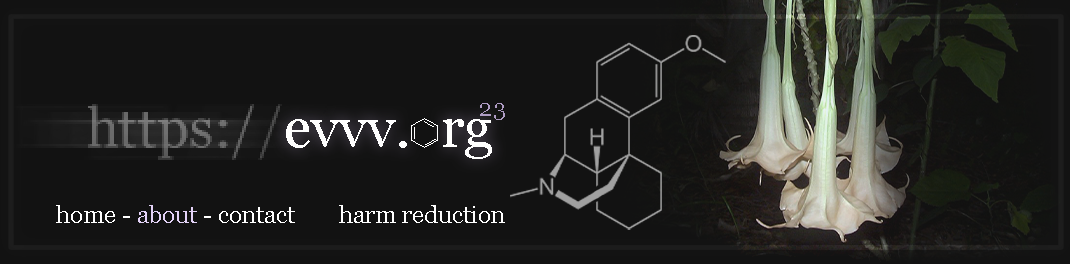
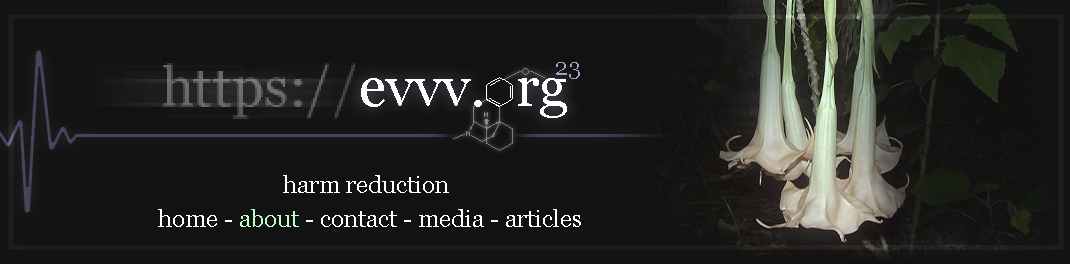
overhaul 2thaMAXX

diff --git a/index.html b/index.html
@@ -5,7 +5,10 @@ evvv.org - home
 </title>
 <link rel="icon" type="image/gif" href="./eye.gif">
 <head>
-
+<meta charset="UTF-8">
+<meta name="description" content="eve's homepage">
+<meta name="keywords" content="Drugs, Pharmacology, Pharmacy, Medical, Medicine">
+<meta name="author" content="evelyn">
 <link rel="stylesheet" href="style.css">
 </head>
 
@@ -41,7 +44,10 @@ evvv.org - home
         <br>
         fever contingency
         </p>
-        <img id="awesomesauce" src="./eve22.png" alt="22 badge">
+        <span>
+ 
+        </span>
+      
         <br><br><br><br>
 
         <p>🌘</p>
@@ -52,21 +58,65 @@ evvv.org - home
 
         <a id="footer" href="https://y22a.ev22.plus">eclipse  22</a>
         <img id="awesomesauce" src="./benzene_footer.png">
+        <div class="badge-container">
+            <div class="badge">
+                <img src="./eve22.png" alt="Badge 1">
+            </div>
+    
+            <div class="badge">
+                <img src="./agoraroad.png" alt="Badge 2">
+            </div>
+    
+            <div class="badge">
+                <img src="./covid.png" alt="Badge 3">
+            </div>
 
-        <div id="cache">
-            <img src="./banner_about.png" width="1px" height="1px">
-            <img src="./banner_con.png" width="1px" height="1px">
-            <img src="./banner_hr.png" width="1px" height="1px">
+            <div class="badge">
+                <img src="./wiki.gif" alt="Badge 3">
+            </div>
+
+            <div class="badge">
+                <img src="./free.gif" alt="Badge 3">
+            </div>
+
+            <div class="badge">
+                <img src="./get_firefox.gif" alt="Badge 3">
+            </div>
+
+            <div class="badge">
+                <img src="./slsk.gif" alt="Badge 3">
+            </div>
+
+            <div class="badge">
+                <img src="./notepad.gif" alt="Badge 3">
+            </div>
+
+            <div class="badge">
+                <img src="./mc.gif" alt="Badge 3">
+            </div>
         </div>
+
+    <div id="cache">
+        <img src="./banner_about.png" width="1px" height="1px">
+        <img src="./banner_con.png" width="1px" height="1px">
+        <img src="./banner_harm.png" width="1px" height="1px">
+        <img src="./banner_media.png" width="1px" height="1px">
+        <img src="./banner_post.png" width="1px" height="1px">
+    </div>
 
 
         <map name="navbar">
-            <area target="" alt="home" title="home" href="./index.html" coords="55,203,117,229" shape="rect">
-            <area target="" alt="about" title="about" href="./about.html" coords="136,202,198,226" shape="rect">
-            <area target="" alt="contact" title="contact" href="./contact.html" coords="219,203,296,228" shape="rect">
-            <area target="" alt="harm reduction resources" title="harm reduction resources" href="./links.html" coords="336,202,507,227" shape="rect">
+            <area target="" alt="home" title="home" href="./index.html" coords="155,208,219,231" shape="rect">
+            <area target="" alt="about" title="about" href="./about.html" coords="237,209,301,231" shape="rect">
+            <area target="" alt="contact" title="contact" href="./contact.html" coords="320,210,398,232" shape="rect">
+            <area target="" alt="media" title="media" href="./media.html" coords="417,207,485,232" shape="rect">
+            <area target="" alt="media" title="media" href="./posts.html" coords="503,207,583,230" shape="rect">
+            <area target="" alt="harm reduction" title="harm reduction" href="./links.html" coords="282,171,449,197" shape="rect">
         </map>
+
+        
     </div>
+    
 </body>
 
 

diff --git a/media.html b/media.html
@@ -1,0 +1,58 @@
+<!DOCTYPE html>
+<html>
+<title>
+    evvv.org - contact info
+</title>
+<meta charset="UTF-8">
+<meta name="description" content="eve's contact info">
+<meta name="keywords" content="Drugs, Pharmacology, Pharmacy, Medical, Medicine">
+<meta name="author" content="evelyn">
+<link rel="icon" type="image/gif" href="./eye.gif">
+<head>
+<link rel="stylesheet" href="style.css">
+
+</head>
+<body>
+    <div id="main-content">
+        <div id="center-column">
+            <img id="header_img" src="./banner_media.png" usemap="#navbar">
+            
+            <img id="wire" src="./medical_spin.gif" height="65px" width="auto">
+            <h1>media</h1>
+
+            <p class="para2">these are all photos i have taken or art i have created, but you can feel free to use them if you want ;; credit or no credit, im fine with either :3</p>
+            <div id="imgcontain">
+                <img src="./media1.jpg" width="350" height="auto">
+                <p id="superduper">taken: 08/30/21</p>
+            </div>
+            <div id="imgcontain">
+                <img src="./media2.jpg" width="350" height="auto">
+                <p id="superduper">taken: 12/12/22</p>
+            </div>
+            <div id="imgcontain">
+                <img src="./media3.jpg" width="350" height="auto">
+                <p id="superduper">taken: 01/25/23</p>
+            </div>
+         
+
+
+            <br><br><br><br><br><br><br>
+            <a href=".\index.html">back</a>
+            <img id="awesomesauce" src="./benzene_footer.png">
+            </div>
+
+            <map name="navbar">
+                <area target="" alt="home" title="home" href="./index.html" coords="155,208,219,231" shape="rect">
+                <area target="" alt="about" title="about" href="./about.html" coords="237,209,301,231" shape="rect">
+                <area target="" alt="contact" title="contact" href="./contact.html" coords="320,210,398,232" shape="rect">
+                <area target="" alt="media" title="media" href="./media.html" coords="417,207,485,232" shape="rect">
+                <area target="" alt="media" title="media" href="./posts.html" coords="503,207,583,230" shape="rect">
+                <area target="" alt="harm reduction" title="harm reduction" href="./links.html" coords="282,171,449,197" shape="rect">
+            </map>
+        </div>
+</body>
+
+
+
+
+</html>

diff --git a/posts.html b/posts.html
@@ -1,0 +1,46 @@
+<!DOCTYPE html>
+<html>
+<title>
+    evvv.org - contact info
+</title>
+<meta charset="UTF-8">
+<meta name="description" content="eve's contact info">
+<meta name="keywords" content="Drugs, Pharmacology, Pharmacy, Medical, Medicine">
+<meta name="author" content="evelyn">
+<link rel="icon" type="image/gif" href="./eye.gif">
+<head>
+<link rel="stylesheet" href="style.css">
+
+</head>
+<body>
+    <div id="main-content">
+        <div id="center-column">
+            <img id="header_img" src="./banner_post.png" usemap="#navbar">
+            
+            <img id="wire" src="./medical_spin.gif" height="65px" width="auto">
+            <h1>articles/posts</h1>
+
+            <br><br><br>
+            <img src="./construct.jpg">
+
+
+            <br><br><br><br><br><br><br>
+            <a href=".\index.html">back</a>
+            <img id="awesomesauce" src="./benzene_footer.png">
+            </div>
+
+            <map name="navbar">
+                <area target="" alt="home" title="home" href="./index.html" coords="155,208,219,231" shape="rect">
+                <area target="" alt="about" title="about" href="./about.html" coords="237,209,301,231" shape="rect">
+                <area target="" alt="contact" title="contact" href="./contact.html" coords="320,210,398,232" shape="rect">
+                <area target="" alt="media" title="media" href="./media.html" coords="417,207,485,232" shape="rect">
+                <area target="" alt="media" title="media" href="./posts.html" coords="503,207,583,230" shape="rect">
+                <area target="" alt="harm reduction" title="harm reduction" href="./links.html" coords="282,171,449,197" shape="rect">
+            </map>
+        </div>
+</body>
+
+
+
+
+</html>

diff --git a/about.html b/about.html
@@ -27,6 +27,10 @@
         </p>
         <a href="https://github.com/frostxyz-bit/23ya">website source code</a> 
 
+        <br><br><br><br>
+
+        <p class="para2">this website was designed with WSXGA monitors in mind ... most elements are not fluid and use absolute values so dont freak out if the scaling is weird on a modern monitor lol</p>
+
 
 
 
@@ -50,10 +54,12 @@
     </div>
 </div>
 <map name="navbar">
-    <area target="" alt="home" title="home" href="./index.html" coords="55,203,117,229" shape="rect">
-    <area target="" alt="about" title="about" href="./about.html" coords="136,202,198,226" shape="rect">
-    <area target="" alt="contact" title="contact" href="./contact.html" coords="219,203,296,228" shape="rect">
-    <area target="" alt="harm reduction resources" title="harm reduction resources" href="./links.html" coords="336,202,507,227" shape="rect">
+    <area target="" alt="home" title="home" href="./index.html" coords="155,208,219,231" shape="rect">
+    <area target="" alt="about" title="about" href="./about.html" coords="237,209,301,231" shape="rect">
+    <area target="" alt="contact" title="contact" href="./contact.html" coords="320,210,398,232" shape="rect">
+    <area target="" alt="media" title="media" href="./media.html" coords="417,207,485,232" shape="rect">
+    <area target="" alt="media" title="media" href="./posts.html" coords="503,207,583,230" shape="rect">
+    <area target="" alt="harm reduction" title="harm reduction" href="./links.html" coords="282,171,449,197" shape="rect">
 </map>
 </body>
 

diff --git a/links.html b/links.html
@@ -16,7 +16,7 @@
 <body>
 <div id="main-content">
     <div id="center-column">
-        <img id="header_img" src="././banner_hr.png" usemap="#navbar">
+        <img id="header_img" src="././banner_harm.png" usemap="#navbar">
         
         <img id="wire" src="./medical_spin.gif" height="65px" width="auto">
         <h1>harm reduction resources</h1>
@@ -58,10 +58,12 @@
 
 
 <map name="navbar">
-    <area target="" alt="home" title="home" href="./index.html" coords="55,203,117,229" shape="rect">
-    <area target="" alt="about" title="about" href="./about.html" coords="136,202,198,226" shape="rect">
-    <area target="" alt="contact" title="contact" href="./contact.html" coords="219,203,296,228" shape="rect">
-    <area target="" alt="harm reduction resources" title="harm reduction resources" href="./links.html" coords="336,202,507,227" shape="rect">
+    <area target="" alt="home" title="home" href="./index.html" coords="155,208,219,231" shape="rect">
+    <area target="" alt="about" title="about" href="./about.html" coords="237,209,301,231" shape="rect">
+    <area target="" alt="contact" title="contact" href="./contact.html" coords="320,210,398,232" shape="rect">
+    <area target="" alt="media" title="media" href="./media.html" coords="417,207,485,232" shape="rect">
+    <area target="" alt="media" title="media" href="./posts.html" coords="503,207,583,230" shape="rect">
+    <area target="" alt="harm reduction" title="harm reduction" href="./links.html" coords="282,171,449,197" shape="rect">
 </map>
 
 </body>

diff --git a/contact.html b/contact.html
@@ -35,12 +35,14 @@
             <img id="awesomesauce" src="./benzene_footer.png">
             </div>
 
-            <map name="navbar">
-                <area target="" alt="home" title="home" href="./index.html" coords="55,203,117,229" shape="rect">
-                <area target="" alt="about" title="about" href="./about.html" coords="136,202,198,226" shape="rect">
-                <area target="" alt="contact" title="contact" href="./contact.html" coords="219,203,296,228" shape="rect">
-                <area target="" alt="harm reduction resources" title="harm reduction resources" href="./links.html" coords="336,202,507,227" shape="rect">
-            </map>
+        <map name="navbar">
+            <area target="" alt="home" title="home" href="./index.html" coords="155,208,219,231" shape="rect">
+            <area target="" alt="about" title="about" href="./about.html" coords="237,209,301,231" shape="rect">
+            <area target="" alt="contact" title="contact" href="./contact.html" coords="320,210,398,232" shape="rect">
+            <area target="" alt="media" title="media" href="./media.html" coords="417,207,485,232" shape="rect">
+            <area target="" alt="media" title="media" href="./posts.html" coords="503,207,583,230" shape="rect">
+            <area target="" alt="harm reduction" title="harm reduction" href="./links.html" coords="282,171,449,197" shape="rect">
+        </map>
         </div>
 </body>
 

diff --git a/style.css b/style.css
@@ -18,6 +18,17 @@ head {
   padding-bottom: 0px!important;
 }
 
+#superduper {
+  display: block;
+  padding-top: 1px!important;
+  margin-top: 2px;
+}
+
+#badge {
+  padding-top: 4px;
+  display: flex!important;
+}
+
 
 html {
   text-align: center;
@@ -154,4 +165,36 @@ body {
 #wire {
   mix-blend-mode:lighten;
   opacity: 75%;
+}
+
+
+.para2 {
+  padding-left: 25%;
+  padding-right: 25%;
+}
+
+#imgcontain {
+  padding-top: 25px;
+  width: 350px;
+  height: auto;
+  margin: auto;
+
+  
+}
+
+
+.badge-container {
+  display: flex;
+  flex-wrap: wrap;
+  justify-content: center;
+  gap: 10px;
+}
+
+
+.badge {
+  margin: 5px;
+  display: flex;
+  align-items: center;
+  justify-content: center;
+  border: 1px solid #ccc;
 }
